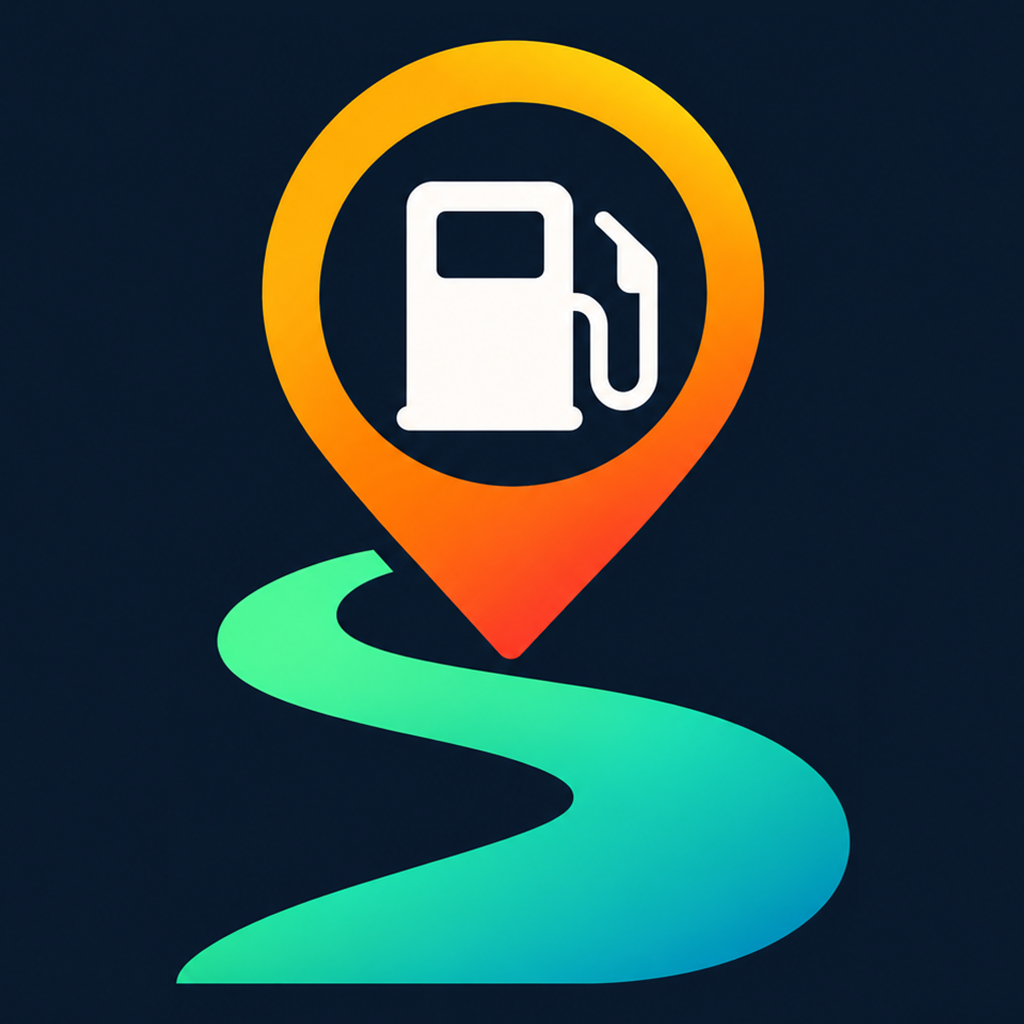
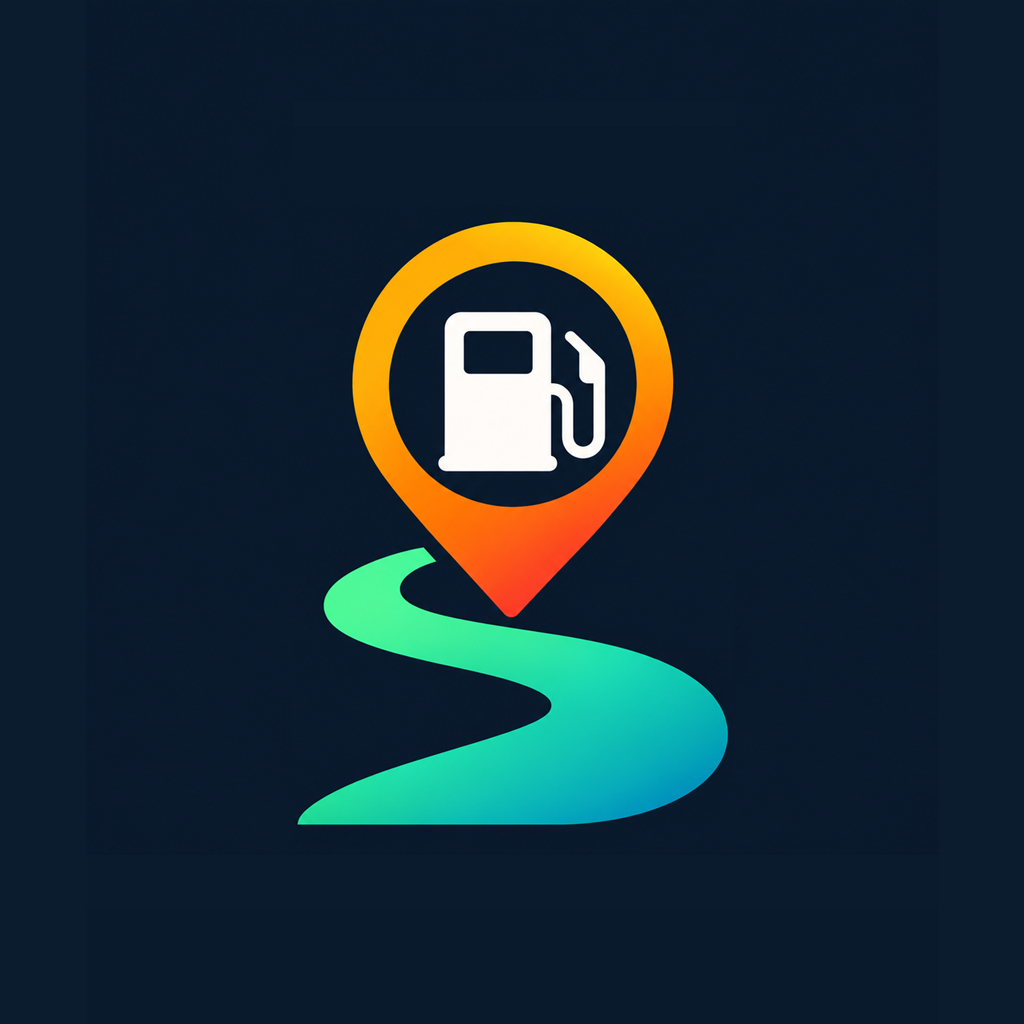
X del buscador resetea todo; mapa con etiquetas antes y encaje anti-huérfanos; iconos respetando el máster
Header/HomePage: la X ahora llama a reset() (query + filtros, conserva combustible).
Mapa: etiquetas desde zoom 7 con tope 1.000 (antes 8/700); FitBounds encaja por
percentiles 5-95 para que una coincidencia lejana (calle homónima al buscar)
no aleje la vista. gen-icons.ps1 reescrito: encaja (contain) el máster tal
cual, de modo que los margees que se añadan al PNG se respeten en el icono
del movil. AGENTS.md actualizado.

Changed region(s): [[0.1562, 0.0312, 0.8438, 0.9688]]

diff --git a/src/components/StationMap.tsx b/src/components/StationMap.tsx
@@ -55,7 +55,20 @@ function FitBounds({ fitSignal, points, focusKey }: { fitSignal: string; points:
     prev.current = fitSignal;
     if (points.length === 0) return;
     if (focusKey !== null) return;
-    const bounds = L.latLngBounds(points.map((p) => [p.geometry.coordinates[1], p.geometry.coordinates[0]] as [number, number]));
+    // Encaje robusto: con conjuntos grandes se descarta el 5 % de los extremos
+    // en lat y lng, para que una coincidencia lejana (calle homónima en otra
+    // provincia al buscar) no aleje la vista de donde está el grueso.
+    const fitBox = (vals: number[]): [number, number] => {
+      if (vals.length < 40) return [vals[0], vals[vals.length - 1]];
+      const lo = vals[Math.floor(vals.length * 0.05)];
+      const hi = vals[Math.ceil(vals.length * 0.95) - 1];
+      return [lo, hi];
+    };
+    const lats = points.map((p) => p.geometry.coordinates[1]).sort((a, b) => a - b);
+    const lngs = points.map((p) => p.geometry.coordinates[0]).sort((a, b) => a - b);
+    const [sLat, eLat] = fitBox(lats);
+    const [sLng, eLng] = fitBox(lngs);
+    const bounds = L.latLngBounds([sLat, sLng], [eLat, eLng]);
     map.fitBounds(bounds.pad(0.1), { animate: true });
   }, [fitSignal, points, map, focusKey]);
   return null;
@@ -176,13 +189,13 @@ function ClusterLayer({
     }
   }, [index, bbox, zoom]);
 
-  // Etiquetas de precio: a partir de zoom 8 y con tope de puntos sueltos
+  // Etiquetas de precio: a partir de zoom 7 y con tope de puntos sueltos
   // para no petar el DOM cuando se ven cientos a la vez.
   let singles = 0;
   for (const c of clusters) {
     if (!(c.properties as { cluster?: boolean }).cluster) singles++;
   }
-  const showPrices = zoom >= 8 && singles <= 700;
+  const showPrices = zoom >= 7 && singles <= 1000;
 
   // Precios del combustible activo por municipio, ordenados: la más barata
   // de cada ciudad va en verde y el 10 % más caro en rojo.

diff --git a/src/components/Header.tsx b/src/components/Header.tsx
@@ -4,7 +4,7 @@ import { normalizeSearchText } from '../utils/format';
 
 interface Props {
   query: string;
-  /** Solo se llama al vaciar la caja: la escritura no filtra, solo sugiere. */
+  /** Pulsar la X: reset completo (query + filtros, conserva el combustible). Escribir no filtra, solo sugiere. */
   onClearText: () => void;
   places: Place[];
   onPickPlace: (p: Place) => void;

diff --git a/src/pages/HomePage.tsx b/src/pages/HomePage.tsx
@@ -211,7 +211,7 @@ export function HomePage({ theme, onToggleTheme }: Props) {
     <>
       <Header
         query={filters.query}
-        onClearText={() => patch({ query: '' })}
+        onClearText={() => reset()}
         places={facets.places}
         onPickPlace={pickPlace}
         locationStatus={geo.status}

diff --git a/AGENTS.md b/AGENTS.md
@@ -30,7 +30,7 @@ Frontend React 19 + TypeScript + Vite + proxy Express hacia MITECO (precios de c
 - El estado de filtros vive en la query string (`fuel`, `prov`, `sort`, `view`, `station`); al tocar `useStationFilters.ts` preservar URLs compartibles.
 - Preferencias persistentes: `useStationFilters.ts` guarda en `localStorage` (`fuel-espana-filters`, validado al leer, query con debounce). Prioridad al arrancar: URL con params > localStorage > defecto. Un enlace compartido nunca queda contaminado por lo guardado.
 - Favoritas: mismo hook (`fuel-espana-favorites`, `{ id, name, filters }`, sin duplicados exactos). Nombre auto (`"Villarrobledo · Diésel"`) en `FilterPanel.tsx`; aplicar sustituye todos los filtros (saneados).
-- El buscador no filtra al escribir: el texto es un borrador local (`Header.tsx`) que solo alimenta sugerencias; la búsqueda aplicada (`query`) solo cambia al elegir ciudad (`pickPlace`, que suelta la ubicación) o al limpiar.
+- El buscador no filtra al escribir: el texto es un borrador local (`Header.tsx`) que solo alimenta sugerencias; la búsqueda aplicada (`query`) solo cambia al elegir ciudad (`pickPlace`, que suelta la ubicación) o al limpiar. La **X** del campo hace reset completo (query + filtros, conserva el combustible).
 - El buscador de la cabecera sugiere localidades (`places` en facetas, `normalizeSearchText`); elegir fija municipio+provincia+CCAA y muestra el nombre en la caja. Sin banner de caché caducada (solo punto rojo).
 - Al conceder ubicación se resetea la búsqueda (el orden queda siempre de menor a mayor); al quitarla, si ordenaba por distancia vuelve a precio.
 - Sin barra de estado visible: las actualizaciones solo se anuncian por `console.log` en `HomePage.tsx` (`[fuel] precios actualizados`).
@@ -39,7 +39,7 @@ Frontend React 19 + TypeScript + Vite + proxy Express hacia MITECO (precios de c
   (el listado ordenado + semáforo la sustituye); "Ver en mapa" en la ficha
   centra la estación (`FocusPoint`); CCAA/provincia limpian el texto.
 - Semáforo compartido lista/mapa (`priceTone` en `format.ts`): verde el mínimo, rojo el 10 % más caro, naranja el resto; elegir localidad baja a `#filtros`.
-- Tótem con selector de carburante (cambia el filtro global); mapa reencuadra al entrar/cambiar filtros, etiquetas de precio desde zoom 8 con tope de 700.
+- Tótem con selector de carburante (cambia el filtro global); mapa reencuadra al entrar/cambiar filtros (encaje por percentiles 5–95: una coincidencia lejana no aleja la vista), etiquetas de precio desde zoom 7 con tope de 1.000.
 - Ubicación: plugin nativo `@capacitor/geolocation` en APK, `navigator` en web (aviso si no hay HTTPS).
 
 ## Responsive
